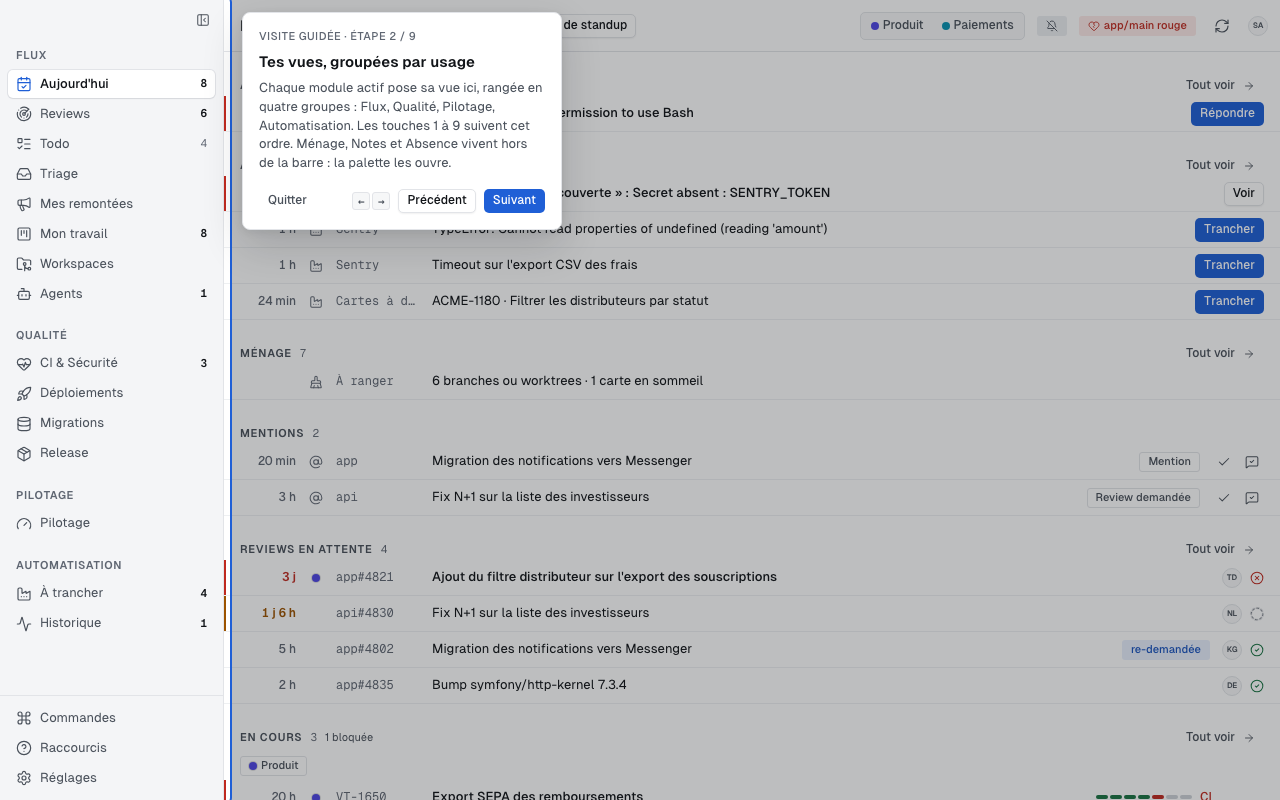
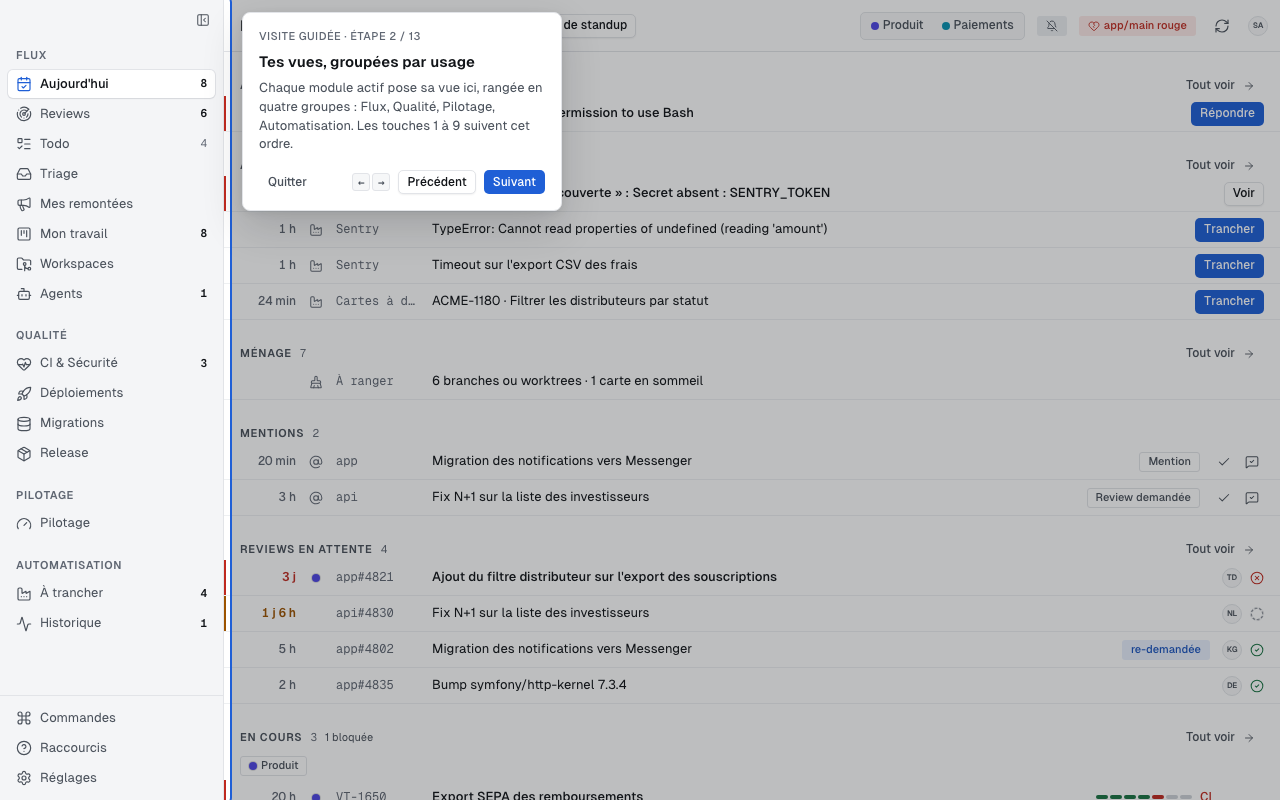
Say the module tour is a button, not an automatic sequel
It is offered on the last step of the first visit; nothing chains to
it on its own. The step filtering is worth saying too: the visit never
names a feature the reader's modules do not carry.

Four shots are retaken behind the rename table and the new steps.

Changed region(s): [[0.1875, 0.1562, 0.4375, 0.3125]]

diff --git a/README.md b/README.md
@@ -170,10 +170,11 @@ Les modules s'activent un par un, avec leurs dépendances et des profils tout fa
 ## Visite guidée
 
 Au premier lancement, un pas à pas éclaire les zones de l'app une à une : la barre des vues,
-l'en-tête, le filtre d'équipe, la palette, les raccourcis et Réglages › Modules. Il enchaîne sur
-un tour des modules, qui passe sur chaque vue — les trois hors de la barre comprises — puis sur
-chaque source. Les étapes d'un module éteint sont sautées. Les deux visites se relancent depuis la
-palette (⌘K) ou Réglages › À propos.
+l'en-tête, le filtre d'équipe, la palette, les raccourcis et Réglages › Modules. Sa dernière étape
+propose un **tour des modules**, qui passe sur chaque vue — les trois hors de la barre comprises —
+puis sur chaque source. Les étapes d'un module éteint sont sautées : la visite ne parle jamais
+d'une fonction que tu n'as pas. La palette (⌘K, « Visite guidée ») et Réglages › À propos
+relancent le pas à pas.
 
 ![Visite guidée](docs/screenshots/visite-guidee.png)
 
